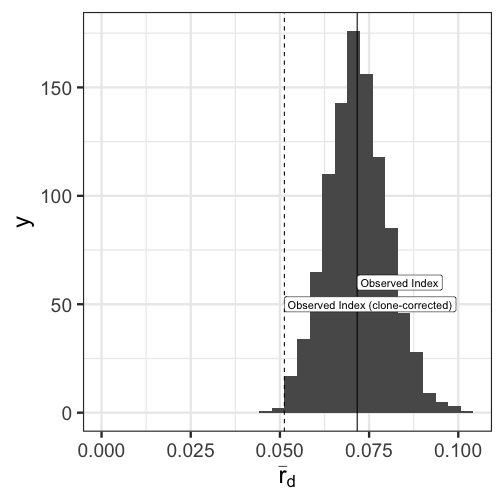
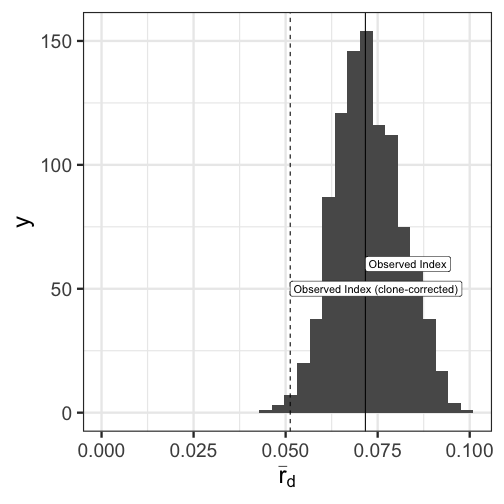
site deploy
Auto-generated via {sandpaper}
Source  : 47f81abc3b5ad5f408e21a77550d7fa375dcea0c
Branch  : md-outputs
Author  : GitHub Actions <actions@github.com>
Time    : 2021-09-21 00:44:23 +0000
Message : markdown source builds

Auto-generated via {sandpaper}
Source  : 1e60da5a46f7cc1ffda26492dfe5a8f917488215
Branch  : main
Author  : Zhian N. Kamvar <zkamvar@gmail.com>
Time    : 2021-09-21 00:41:29 +0000
Message : Merge pull request #13 from zkamvar/update-4-packages-2021-09-21

Update 4 packages

diff --git a/02-poppr-example.html b/02-poppr-example.html
@@ -8,7 +8,7 @@
 <meta http-equiv="X-UA-Compatible" content="IE=edge">
 <meta name="viewport" content="width=device-width, initial-scale=1.0">
 
-<meta http-equiv="last-modified" content="2021-09-21 00:34:41 +0000">
+<meta http-equiv="last-modified" content="2021-09-21 00:44:23 +0000">
 
 
 
@@ -256,31 +256,34 @@ Population information:
 
     2 strata - Continent, Country
     2 populations defined - South America, North America</code></pre>
-<div class="sourceCode" id="cb3"><pre class="sourceCode r"><code class="sourceCode r"><span id="cb3-1"><a href="#cb3-1" aria-hidden="true" tabindex="-1"></a>Pinf_ia <span class="ot">&lt;-</span> <span class="fu">ia</span>(Pinf, <span class="at">sample =</span> <span class="dv">999</span>)</span></code></pre></div>
+<div class="sourceCode" id="cb3"><pre class="sourceCode r"><code class="sourceCode r"><span id="cb3-1"><a href="#cb3-1" aria-hidden="true" tabindex="-1"></a><span class="fu">set.seed</span>(<span class="dv">2021-09-21</span>)</span>
+<span id="cb3-2"><a href="#cb3-2" aria-hidden="true" tabindex="-1"></a>Pinf_ia <span class="ot">&lt;-</span> <span class="fu">ia</span>(Pinf, <span class="at">sample =</span> <span class="dv">999</span>)</span></code></pre></div>
 <p><img src="fig/02-poppr-example-rendered-ia-1.png" style="display: block; margin: auto;" /></p>
 <div class="sourceCode" id="cb4"><pre class="sourceCode r"><code class="sourceCode r"><span id="cb4-1"><a href="#cb4-1" aria-hidden="true" tabindex="-1"></a><span class="fu">print</span>(Pinf_ia)</span></code></pre></div>
 <pre class="output"><code>        Ia       p.Ia      rbarD       p.rD 
 0.65243253 0.00100000 0.07166177 0.00100000 </code></pre>
 <p>We can also clone-correct the data to remove repeated genotypes, which may represent resamples of the same genet.</p>
-<div class="sourceCode" id="cb6"><pre class="sourceCode r"><code class="sourceCode r"><span id="cb6-1"><a href="#cb6-1" aria-hidden="true" tabindex="-1"></a>Pinf_cc <span class="ot">&lt;-</span> <span class="fu">ia</span>(<span class="fu">clonecorrect</span>(Pinf), <span class="at">sample =</span> <span class="dv">999</span>)</span></code></pre></div>
+<div class="sourceCode" id="cb6"><pre class="sourceCode r"><code class="sourceCode r"><span id="cb6-1"><a href="#cb6-1" aria-hidden="true" tabindex="-1"></a><span class="fu">set.seed</span>(<span class="dv">2021-09-21</span>)</span>
+<span id="cb6-2"><a href="#cb6-2" aria-hidden="true" tabindex="-1"></a>Pinf_cc <span class="ot">&lt;-</span> <span class="fu">ia</span>(<span class="fu">clonecorrect</span>(Pinf), <span class="at">sample =</span> <span class="dv">999</span>)</span></code></pre></div>
 <p><img src="fig/02-poppr-example-rendered-ia_cc-1.png" style="display: block; margin: auto;" /></p>
 <div class="sourceCode" id="cb7"><pre class="sourceCode r"><code class="sourceCode r"><span id="cb7-1"><a href="#cb7-1" aria-hidden="true" tabindex="-1"></a><span class="fu">print</span>(Pinf_cc)</span></code></pre></div>
 <pre class="output"><code>        Ia       p.Ia      rbarD       p.rD 
 0.47044566 0.00100000 0.05124452 0.00100000 </code></pre>
 <p>This index has no known distribution, but we can get an idea of the spread by resampling it by the unique number of mulitlocus genotypes.</p>
 <div class="sourceCode" id="cb9"><pre class="sourceCode r"><code class="sourceCode r"><span id="cb9-1"><a href="#cb9-1" aria-hidden="true" tabindex="-1"></a><span class="co"># Calculate the resampled index</span></span>
-<span id="cb9-2"><a href="#cb9-2" aria-hidden="true" tabindex="-1"></a>Pinf.resamp <span class="ot">&lt;-</span> <span class="fu">resample.ia</span>(Pinf, <span class="at">reps =</span> <span class="dv">999</span>)</span>
-<span id="cb9-3"><a href="#cb9-3" aria-hidden="true" tabindex="-1"></a></span>
-<span id="cb9-4"><a href="#cb9-4" aria-hidden="true" tabindex="-1"></a><span class="co"># Create the plot</span></span>
-<span id="cb9-5"><a href="#cb9-5" aria-hidden="true" tabindex="-1"></a><span class="fu">library</span>(<span class="st">&quot;ggplot2&quot;</span>)</span>
-<span id="cb9-6"><a href="#cb9-6" aria-hidden="true" tabindex="-1"></a><span class="fu">ggplot</span>(Pinf.resamp[<span class="dv">2</span>], <span class="fu">aes</span>(<span class="at">x =</span> rbarD)) <span class="sc">+</span></span>
-<span id="cb9-7"><a href="#cb9-7" aria-hidden="true" tabindex="-1"></a>  <span class="fu">geom_histogram</span>(<span class="at">bins =</span> <span class="dv">30</span>) <span class="sc">+</span></span>
-<span id="cb9-8"><a href="#cb9-8" aria-hidden="true" tabindex="-1"></a>  <span class="fu">geom_vline</span>(<span class="at">xintercept =</span> Pinf_ia[<span class="dv">3</span>]) <span class="sc">+</span></span>
-<span id="cb9-9"><a href="#cb9-9" aria-hidden="true" tabindex="-1"></a>  <span class="fu">annotate</span>(<span class="st">&quot;label&quot;</span>, <span class="at">x =</span> Pinf_ia[<span class="dv">3</span>], <span class="at">y =</span> <span class="dv">60</span>, <span class="at">label =</span> <span class="st">&quot;Observed Index&quot;</span>, <span class="at">hjust =</span> <span class="dv">0</span>) <span class="sc">+</span></span>
-<span id="cb9-10"><a href="#cb9-10" aria-hidden="true" tabindex="-1"></a>  <span class="fu">geom_vline</span>(<span class="at">xintercept =</span> Pinf_cc[<span class="dv">3</span>], <span class="at">linetype =</span> <span class="dv">2</span>) <span class="sc">+</span></span>
-<span id="cb9-11"><a href="#cb9-11" aria-hidden="true" tabindex="-1"></a>  <span class="fu">annotate</span>(<span class="st">&quot;label&quot;</span>, <span class="at">x =</span> Pinf_cc[<span class="dv">3</span>], <span class="at">y =</span> <span class="dv">50</span>, <span class="at">label =</span> <span class="st">&quot;Observed Index (clone-corrected)&quot;</span>, <span class="at">hjust =</span> <span class="dv">0</span>) <span class="sc">+</span></span>
-<span id="cb9-12"><a href="#cb9-12" aria-hidden="true" tabindex="-1"></a>  <span class="fu">xlab</span>(<span class="fu">expression</span>(<span class="fu">bar</span>(r)[d])) <span class="sc">+</span></span>
-<span id="cb9-13"><a href="#cb9-13" aria-hidden="true" tabindex="-1"></a>  <span class="fu">xlim</span>(<span class="fu">c</span>(<span class="dv">0</span>, <span class="cn">NA</span>))</span></code></pre></div>
+<span id="cb9-2"><a href="#cb9-2" aria-hidden="true" tabindex="-1"></a><span class="fu">set.seed</span>(<span class="dv">2021-09-21</span>)</span>
+<span id="cb9-3"><a href="#cb9-3" aria-hidden="true" tabindex="-1"></a>Pinf.resamp <span class="ot">&lt;-</span> <span class="fu">resample.ia</span>(Pinf, <span class="at">reps =</span> <span class="dv">999</span>)</span>
+<span id="cb9-4"><a href="#cb9-4" aria-hidden="true" tabindex="-1"></a></span>
+<span id="cb9-5"><a href="#cb9-5" aria-hidden="true" tabindex="-1"></a><span class="co"># Create the plot</span></span>
+<span id="cb9-6"><a href="#cb9-6" aria-hidden="true" tabindex="-1"></a><span class="fu">library</span>(<span class="st">&quot;ggplot2&quot;</span>)</span>
+<span id="cb9-7"><a href="#cb9-7" aria-hidden="true" tabindex="-1"></a><span class="fu">ggplot</span>(Pinf.resamp[<span class="dv">2</span>], <span class="fu">aes</span>(<span class="at">x =</span> rbarD)) <span class="sc">+</span></span>
+<span id="cb9-8"><a href="#cb9-8" aria-hidden="true" tabindex="-1"></a>  <span class="fu">geom_histogram</span>(<span class="at">bins =</span> <span class="dv">30</span>) <span class="sc">+</span></span>
+<span id="cb9-9"><a href="#cb9-9" aria-hidden="true" tabindex="-1"></a>  <span class="fu">geom_vline</span>(<span class="at">xintercept =</span> Pinf_ia[<span class="dv">3</span>]) <span class="sc">+</span></span>
+<span id="cb9-10"><a href="#cb9-10" aria-hidden="true" tabindex="-1"></a>  <span class="fu">annotate</span>(<span class="st">&quot;label&quot;</span>, <span class="at">x =</span> Pinf_ia[<span class="dv">3</span>], <span class="at">y =</span> <span class="dv">60</span>, <span class="at">label =</span> <span class="st">&quot;Observed Index&quot;</span>, <span class="at">hjust =</span> <span class="dv">0</span>) <span class="sc">+</span></span>
+<span id="cb9-11"><a href="#cb9-11" aria-hidden="true" tabindex="-1"></a>  <span class="fu">geom_vline</span>(<span class="at">xintercept =</span> Pinf_cc[<span class="dv">3</span>], <span class="at">linetype =</span> <span class="dv">2</span>) <span class="sc">+</span></span>
+<span id="cb9-12"><a href="#cb9-12" aria-hidden="true" tabindex="-1"></a>  <span class="fu">annotate</span>(<span class="st">&quot;label&quot;</span>, <span class="at">x =</span> Pinf_cc[<span class="dv">3</span>], <span class="at">y =</span> <span class="dv">50</span>, <span class="at">label =</span> <span class="st">&quot;Observed Index (clone-corrected)&quot;</span>, <span class="at">hjust =</span> <span class="dv">0</span>) <span class="sc">+</span></span>
+<span id="cb9-13"><a href="#cb9-13" aria-hidden="true" tabindex="-1"></a>  <span class="fu">xlab</span>(<span class="fu">expression</span>(<span class="fu">bar</span>(r)[d])) <span class="sc">+</span></span>
+<span id="cb9-14"><a href="#cb9-14" aria-hidden="true" tabindex="-1"></a>  <span class="fu">xlim</span>(<span class="fu">c</span>(<span class="dv">0</span>, <span class="cn">NA</span>))</span></code></pre></div>
 <pre class="warning"><code>Warning: Removed 1 rows containing missing values (geom_bar).</code></pre>
 <div class="figure" style="text-align: center">
 <img src="fig/02-poppr-example-rendered-resample-1.png" alt="histogram of the index of association; a solid vertical line represents the observed value of the index of association; a dotted vertical line to the right represents the observed value of the clone corrected data."  />

diff --git a/01-introduction.html b/01-introduction.html
@@ -8,7 +8,7 @@
 <meta http-equiv="X-UA-Compatible" content="IE=edge">
 <meta name="viewport" content="width=device-width, initial-scale=1.0">
 
-<meta http-equiv="last-modified" content="2021-09-21 00:34:41 +0000">
+<meta http-equiv="last-modified" content="2021-09-21 00:44:23 +0000">
 
 
 
@@ -249,7 +249,7 @@
 <span id="cb1-3"><a href="#cb1-3" aria-hidden="true" tabindex="-1"></a><span class="fu">say</span>(<span class="st">&quot;catfact&quot;</span>, <span class="st">&quot;cat&quot;</span>)</span></code></pre></div>
 <pre class="output"><code>
  -------------- 
-Cats step with both left legs, then both right legs when they walk or run. 
+The oldest cat on record was Crème Puff from Austin, Texas, who lived from 1967 to August 6, 2005, three days after her 38th birthday. A cat typically can live up to 20 years, which is equivalent to about 96 human years. 
  --------------
     \
       \
@@ -350,7 +350,7 @@ Sun arise each and every morning
  collate  en_US.UTF-8                 
  ctype    en_US.UTF-8                 
  tz       UTC                         
- date     2021-09-11                  
+ date     2021-09-21                  
 
 ─ Packages ───────────────────────────────────────────────────────────────────────────────────────
  ! package     * version    date       lib source                                      
@@ -376,10 +376,10 @@ Sun arise each and every morning
  P stringi       1.7.4.9001 2021-09-03 [?] https://carpentries.r-universe.dev (R 4.1.1)
  P stringr       1.4.0      2019-02-10 [?] CRAN (R 4.1.0)                              
  P withr         2.4.2      2021-04-18 [?] CRAN (R 4.1.0)                              
- P xfun          0.25       2021-08-06 [?] CRAN (R 4.1.0)                              
+ P xfun          0.26       2021-09-14 [?] CRAN (R 4.1.0)                              
 
 [1] /Users/runner/work/test-with-renv/test-with-renv/renv/profiles/lesson-requirements/renv/library/R-4.1/x86_64-apple-darwin17.0
-[2] /private/var/folders/24/8k48jl6d249_n_qfxwsl6xvm0000gn/T/Rtmp6CPRPk/renv-system-library
+[2] /private/var/folders/24/8k48jl6d249_n_qfxwsl6xvm0000gn/T/Rtmp6cvses/renv-system-library
 
  P ── Loaded and on-disk path mismatch.
  R ── Package was removed from disk.</code></pre>

diff --git a/404.html b/404.html
@@ -8,7 +8,7 @@
 <meta http-equiv="X-UA-Compatible" content="IE=edge">
 <meta name="viewport" content="width=device-width, initial-scale=1.0">
 
-<meta http-equiv="last-modified" content="2021-09-21 00:34:41 +0000">
+<meta http-equiv="last-modified" content="2021-09-21 00:44:23 +0000">
 
 
 

diff --git a/CODE_OF_CONDUCT.html b/CODE_OF_CONDUCT.html
@@ -8,7 +8,7 @@
 <meta http-equiv="X-UA-Compatible" content="IE=edge">
 <meta name="viewport" content="width=device-width, initial-scale=1.0">
 
-<meta http-equiv="last-modified" content="2021-09-21 00:34:41 +0000">
+<meta http-equiv="last-modified" content="2021-09-21 00:44:23 +0000">
 
 
 

diff --git a/LICENSE.html b/LICENSE.html
@@ -8,7 +8,7 @@
 <meta http-equiv="X-UA-Compatible" content="IE=edge">
 <meta name="viewport" content="width=device-width, initial-scale=1.0">
 
-<meta http-equiv="last-modified" content="2021-09-21 00:34:41 +0000">
+<meta http-equiv="last-modified" content="2021-09-21 00:44:23 +0000">
 
 
 

diff --git a/Setup.html b/Setup.html
@@ -8,7 +8,7 @@
 <meta http-equiv="X-UA-Compatible" content="IE=edge">
 <meta name="viewport" content="width=device-width, initial-scale=1.0">
 
-<meta http-equiv="last-modified" content="2021-09-21 00:34:41 +0000">
+<meta http-equiv="last-modified" content="2021-09-21 00:44:23 +0000">
 
 
 

diff --git a/index.html b/index.html
@@ -8,7 +8,7 @@
 <meta http-equiv="X-UA-Compatible" content="IE=edge">
 <meta name="viewport" content="width=device-width, initial-scale=1.0">
 
-<meta http-equiv="last-modified" content="2021-09-21 00:34:41 +0000">
+<meta http-equiv="last-modified" content="2021-09-21 00:44:23 +0000">
 
 
 

diff --git a/instructor-notes.html b/instructor-notes.html
@@ -8,7 +8,7 @@
 <meta http-equiv="X-UA-Compatible" content="IE=edge">
 <meta name="viewport" content="width=device-width, initial-scale=1.0">
 
-<meta http-equiv="last-modified" content="2021-09-21 00:34:41 +0000">
+<meta http-equiv="last-modified" content="2021-09-21 00:44:23 +0000">
 
 
 

diff --git a/learner-profiles.html b/learner-profiles.html
@@ -8,7 +8,7 @@
 <meta http-equiv="X-UA-Compatible" content="IE=edge">
 <meta name="viewport" content="width=device-width, initial-scale=1.0">
 
-<meta http-equiv="last-modified" content="2021-09-21 00:34:41 +0000">
+<meta http-equiv="last-modified" content="2021-09-21 00:44:23 +0000">
 
 
 
